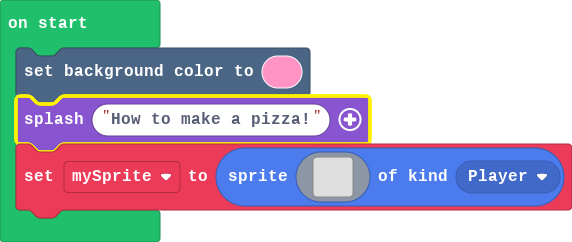
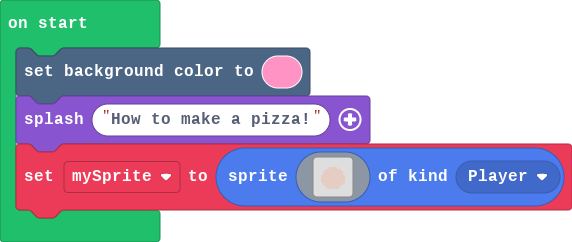
Update main.blocks, main.ts

Changed region(s): [[0.0, 0.376, 0.6538, 0.6364], [0.535, 0.6942, 0.6241, 0.781], [0.0297, 0.5785, 0.0594, 0.6074]]

diff --git a/main.ts b/main.ts
@@ -4,17 +4,17 @@ let mySprite = sprites.create(img`
     . . . . . . . . . . . . . . . . 
     . . . . . . . . . . . . . . . . 
     . . . . . . . . . . . . . . . . 
-    . . . . . . . . . . . . . . . . 
-    . . . . . . . . . . . . . . . . 
-    . . . . . . . . . . . . . . . . 
-    . . . . . . . . . . . . . . . . 
-    . . . . . . . . . . . . . . . . 
-    . . . . . . . . . . . . . . . . 
-    . . . . . . . . . . . . . . . . 
-    . . . . . . . . . . . . . . . . 
-    . . . . . . . . . . . . . . . . 
-    . . . . . . . . . . . . . . . . 
-    . . . . . . . . . . . . . . . . 
+    . . . . . . d d d d . . . . . . 
+    . . . . d d d d d d d d . . . . 
+    . . . d d d d d d d d d d . . . 
+    . . . d d d d d d d d d d . . . 
+    . . d d d d d d d d d d d d . . 
+    . . d d d d d d d d d d d d . . 
+    . . d d d d d d d d d d d d . . 
+    . . d d d d d d d d d d d d . . 
+    . . . d d d d d d d d d d . . . 
+    . . . . d d d d d d d d . . . . 
+    . . . . . d d d d d d . . . . . 
     . . . . . . . . . . . . . . . . 
     . . . . . . . . . . . . . . . . 
     `, SpriteKind.Player)
